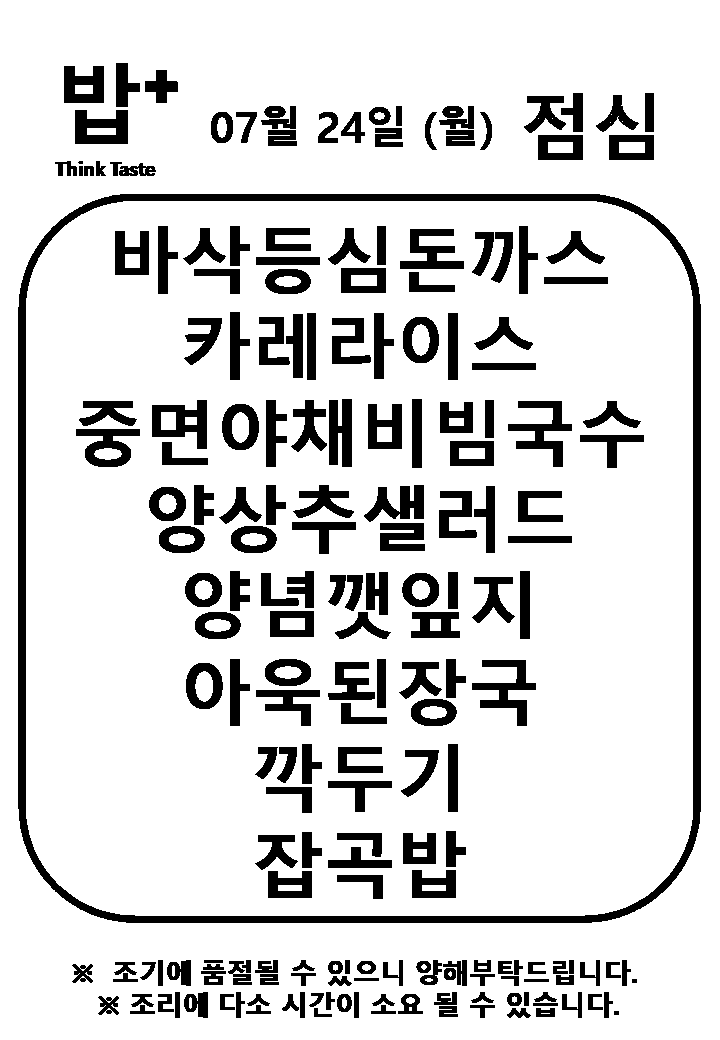
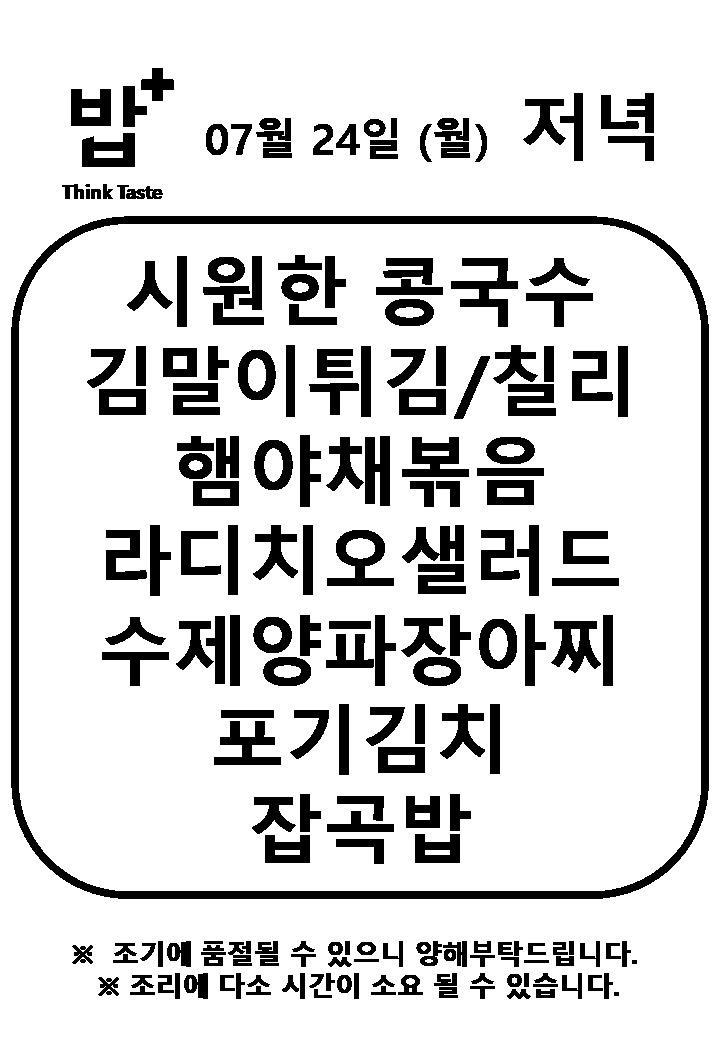
점심저녁에 따른 적절한 이미지 슬랙으로 전송하게 구현

diff --git a/src/test.py b/src/test.py
@@ -1,101 +1,65 @@
-from selenium import webdriver
-import requests
-from bs4 import BeautifulSoup
-import slack_sdk
+
 import datetime as dt
 import os
-import io
-from PIL import Image
+import sys
 from dotenv import load_dotenv
-import pytesseract
-import cv2 
 
-def getImageUrls() :
-    try :
-        url = os.getenv("CRAWLING_URL")
+import crawling
+import ocr
+import slack
 
-        res = requests.get(url)
-        res.raise_for_status()
-        soup = BeautifulSoup(res.text, "lxml")
-        
-        imageUrlList = []
-
-        bidUrl = soup.find_all("div", attrs = {"class" : "se-component se-image se-l-default"})
-        for div in bidUrl:
-            imageUrl = div.find("img")["src"].split('?')
-            imageUrlList.append(imageUrl[0] + "?type=w773")
-        
-        return imageUrlList
-    except :
-        return None
-
-def getTodayMenuImage():
-    print()
-
-
-def slackMessageFormat(list):
-    now = dt.datetime.now()
-    today = now.strftime("%y년 %m월 %d일")
-    title = today + " 오늘의 메뉴는???"
-
-    return [
-        {
-			"type": "section",
-			"text": {
-				"type": "mrkdwn",
-				"text": title
-			}
-		},
-        {
-            "type": "image",
-            "title": {
-                "type": "plain_text",
-                "text": title,
-                "emoji": True
-            },
-            "image_url": list[0],
-			"alt_text": "image1"
-        }
-    ]
-
-def sendSlackMessage(list) :
-    slackToken = os.getenv("TEST_TOKEN")
-    channel = os.getenv("TEST_CHANNEL")
-    client = slack_sdk.WebClient(token = slackToken)
-
-    text = "test"
-
-    client.chat_postMessage(channel = channel, blocks = slackMessageFormat(list))
-
-
+## argv
+## 점심 : 0
+## 저녁 : 1
 
 if __name__ == "__main__":
+    # 매개변수 확인
+    if len(sys.argv) != 2:
+        print("매개변수 하나 지정해서 넣으소")
+        sys.exit()
+    menuTimeFlag = sys.argv[1]
+    if (menuTimeFlag != '0' and menuTimeFlag != '1')  :
+        print("매개변수 0, 1 중에 넣으소")
+        sys.exit()
+    isLaunch = sys.argv[1] == '0'
+
+    # dotenv에서 url이랑 정보들 가져올 수 있게 함
     load_dotenv(verbose=True)
-    imageUrlList = getImageUrls()
+
+    # 블로그에서 게시글 내 이미지들의 url을 가져옴
+    imageUrlList = crawling.getImageUrls()
     if (imageUrlList == None):
+        slack.sendSlackErrorMessage("홈페이지에서 메뉴 이미지를 불러오지 못했습니다.")
         print("조졌네이~")
-        exit()
-    else:
-        print("0")
-        # print(imageUrlList)
+        sys.exit()
+    
+    # 마지막 이미지는 건물 소개 이미지라 삭제하였음
+    imageUrlList.pop() 
 
-    # sendSlackMessage(imageUrlList)
-    print()
-    url = imageUrlList[0]
-    print(url)
-    # response = requests.get(imageUrlList[0])
-    # print(io.BytesIO(response.content))
 
-    os.system("mkdir -p image")
-    os.system("curl " + url + " > ./image/test.png")
-    print()
-    img = cv2.imread("./image/test.png")
-    gray = cv2.cvtColor(img, cv2.COLOR_BGR2GRAY)
-    gray = cv2.threshold(gray, 0, 255, cv2.THRESH_BINARY | cv2.THRESH_OTSU)[1]
-    # gray = cv2.medianBlur(gray, 3)
-    cv2.imwrite('./image/grayImage.png',gray)
-    gray_temp = gray[50:200,150:800]
-    cv2.imwrite('./image/grayTempImage.png',gray_temp)
-    text = pytesseract.image_to_string(gray_temp, lang='Hangul', config = '-l Hangul --oem 3 --psm 6')
-    text = text.replace(" ", "")
-    print(text)
+    now = dt.datetime.now()
+    # today = now.strftime("%m월%d일")
+    today = now.strftime("07월24일")
+
+    for url in imageUrlList:
+        print(url)
+        img = ocr.getProcessedImage(url)
+        text = ocr.imageToString(img)
+        print()
+        print(today)
+        print(text)
+        print()
+
+        if (isLaunch == True):
+            if "점심" in text and today in text:
+                slack.sendSlackMessage(url)
+                sys.exit()
+        else:
+            if "저녁" in text and today in text:
+                slack.sendSlackMessage(url)
+                sys.exit()
+
+    slack.sendSlackErrorMessage("블로그에 올라온 이미지를 제대로 읽지 못했거나, 이미지가 올라와있지 않습니다.")
+
+
+

diff --git a/src/slack/slack.py b/src/slack/slack.py
@@ -1,0 +1,56 @@
+import slack_sdk
+import datetime as dt
+import os
+
+def slackMessageFormat(imageUrl):
+    now = dt.datetime.now()
+    today = now.strftime("%y년 %m월 %d일")
+    title = today + " 오늘의 메뉴는???"
+
+    return [
+        {
+			"type": "section",
+			"text": {
+				"type": "mrkdwn",
+				"text": today + " 오늘의 메뉴는???"
+			}
+		},
+        {
+            "type": "image",
+            "title": {
+                "type": "plain_text",
+                "text": today + " 오늘의 메뉴는???",
+                "emoji": True
+            },
+            "image_url": imageUrl,
+			"alt_text": "image1"
+        }
+    ]
+
+
+def slackErrorMessageFormat(msg):
+    now = dt.datetime.now()
+    today = now.strftime("%y년 %m월 %d일")
+
+    return [
+        {
+			"type": "section",
+			"text": {
+				"type": "mrkdwn",
+				"text": ":alert: `Error` 메뉴를 불러오지 못했습니다.\n```" + today + "\n" + msg + "```"
+			}
+		},
+    ]
+
+def sendSlackMessage(imageUrl) :
+    slackToken = os.getenv("TEST_TOKEN")
+    channel = os.getenv("TEST_CHANNEL")
+    client = slack_sdk.WebClient(token = slackToken)
+    client.chat_postMessage(channel = channel, blocks = slackMessageFormat(imageUrl))
+
+def sendSlackErrorMessage(msg) :
+    slackToken = os.getenv("TEST_TOKEN")
+    channel = os.getenv("TEST_CHANNEL")
+    client = slack_sdk.WebClient(token = slackToken)
+    client.chat_postMessage(channel = channel, blocks = slackErrorMessageFormat(msg))
+

diff --git a/src/ocr/ocr.py b/src/ocr/ocr.py
@@ -1,0 +1,23 @@
+import os
+from dotenv import load_dotenv
+import pytesseract
+import cv2 
+
+def getProcessedImage(url):
+    os.system("mkdir -p image")
+    os.system("curl " + url + " > ./image/test.png")
+    img = cv2.imread("./image/test.png")
+    gray = cv2.cvtColor(img, cv2.COLOR_BGR2GRAY)
+    gray = cv2.threshold(gray, 0, 255, cv2.THRESH_BINARY | cv2.THRESH_OTSU)[1]
+    # gray = cv2.medianBlur(gray, 5)
+    cv2.imwrite('./image/grayImage.png',gray)
+    cropGray = gray[80:190,180:770]
+    cv2.imwrite('./image/grayCropImage.png',cropGray)
+    # os.system("rm -rf ./image/test.png ./image/grayCropImage.png ./image/grayImage.png")
+    return cropGray
+
+def imageToString(image):
+    text = pytesseract.image_to_string(image, lang='Hangul', config = '-l Hangul --oem 3 --psm 6')
+    text = text.replace(" ", "")
+    return text
+    

diff --git a/src/crawling/crawling.py b/src/crawling/crawling.py
@@ -1,0 +1,26 @@
+from selenium import webdriver
+import requests
+from bs4 import BeautifulSoup
+import os
+
+def getImageUrls() :
+    try :
+        url = os.getenv("CRAWLING_URL")
+
+        res = requests.get(url)
+        res.raise_for_status()
+        soup = BeautifulSoup(res.text, "lxml")
+        
+        imageUrlList = []
+
+        bidUrl = soup.find_all("div", attrs = {"class" : "se-component se-image se-l-default"})
+        for div in bidUrl:
+            imageUrl = div.find("img")["src"].split('?')
+            imageUrlList.append(imageUrl[0] + "?type=w773")
+        
+        return imageUrlList
+    except AttributeError :
+        return None
+
+def getTodayMenuImage():
+    print()

diff --git a/src/slack/__init__.py b/src/slack/__init__.py
@@ -1,0 +1,2 @@
+from .slack import sendSlackMessage
+from .slack import sendSlackErrorMessage

diff --git a/src/crawling/__init__.py b/src/crawling/__init__.py
@@ -1,0 +1,2 @@
+from .crawling import getImageUrls
+from .crawling import getTodayMenuImage

diff --git a/src/ocr/__init__.py b/src/ocr/__init__.py
@@ -1,0 +1,2 @@
+from .ocr import getProcessedImage
+from .ocr import imageToString
